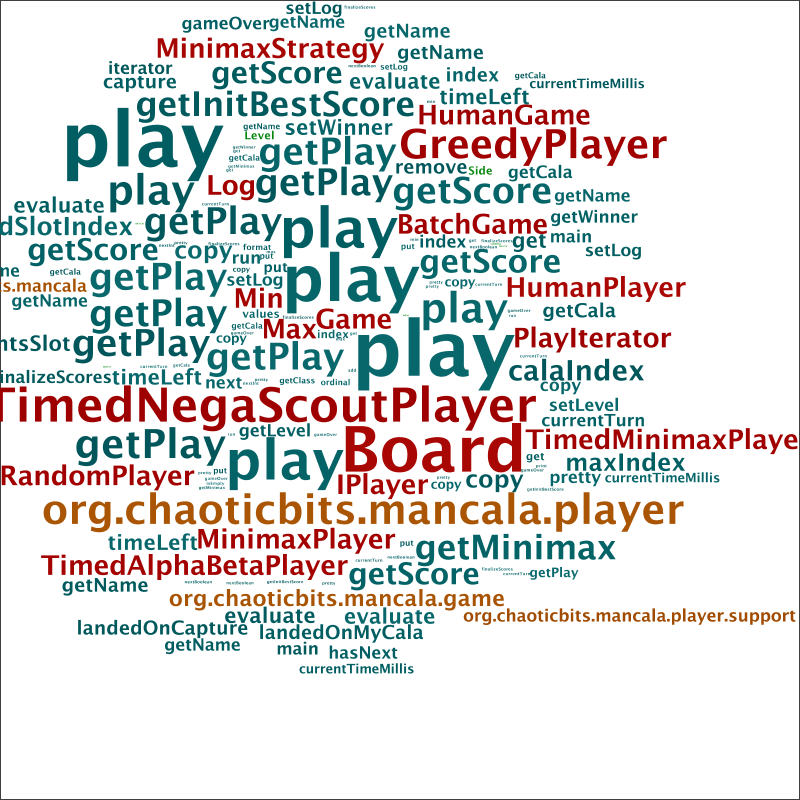
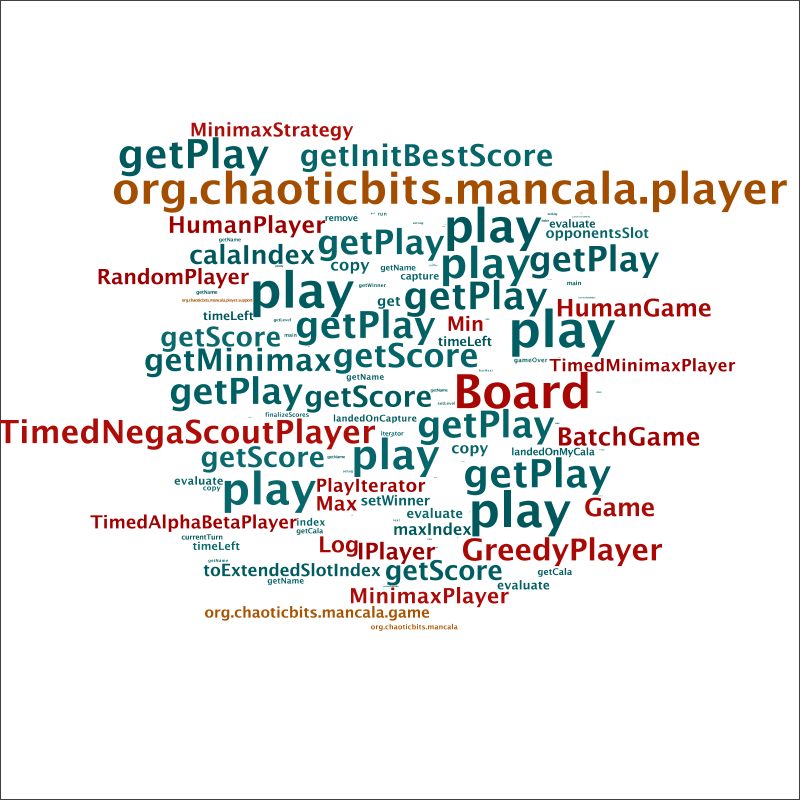
added a non-parametric font transformer, with a parameterized transform. Fix #1

Changed region(s): [[0.0, 0.0, 1.0, 0.8438]]

diff --git a/src/test/java/org/chaoticbits/collabcloud/visualizer/font/NonParametricFontTest.java b/src/test/java/org/chaoticbits/collabcloud/visualizer/font/NonParametricFontTest.java
@@ -1,0 +1,72 @@
+package org.chaoticbits.collabcloud.visualizer.font;
+
+import static org.junit.Assert.assertEquals;
+
+import java.awt.Font;
+
+import org.chaoticbits.collabcloud.CloudWeights;
+import org.chaoticbits.collabcloud.ISummaryToken;
+import org.easymock.EasyMock;
+import org.easymock.IMocksControl;
+import org.junit.After;
+import org.junit.Before;
+import org.junit.Test;
+
+public class NonParametricFontTest {
+
+	private static final int NUM_TOKENS = 10;
+	private IMocksControl ctrl = EasyMock.createControl();
+	private ISummaryToken[] token;
+	private Font font = new Font("Courier New", Font.PLAIN, 100);
+
+	@Before
+	public void setUp() {
+		if (token == null) {
+			token = new ISummaryToken[NUM_TOKENS];
+			for (int i = 0; i < NUM_TOKENS; i++)
+				token[i] = ctrl.createMock(ISummaryToken.class);
+		}
+		ctrl.reset();
+	}
+
+	@After
+	public void verifyMocks() {
+		ctrl.verify();
+	}
+
+	@Test
+	public void squareTheRanks() throws Exception {
+		CloudWeights weights = new CloudWeights();
+		weights.put(token[0], 1000d); // Rank 7
+		weights.put(token[1], 50d);
+		weights.put(token[2], 10d); // Rank 5
+		weights.put(token[3], 9d);
+		weights.put(token[4], 8d);
+		weights.put(token[5], 7d);
+		weights.put(token[6], 5d); // Rank 1
+
+		int maxFontSize = 49; // no scaling
+		IFontTransformer trans = new NonParametricFont(font, weights, MathTransforms.square, maxFontSize);
+		ctrl.replay();
+		assertEquals(49d, trans.transform(token[0], 1000d).getSize2D(), 0.001);
+		assertEquals(25d, trans.transform(token[2], 500d).getSize2D(), 0.001);
+		assertEquals(1d, trans.transform(token[6], 1d).getSize2D(), 0.001);
+	}
+	
+	@Test
+	public void cubeTheRanks() throws Exception {
+		CloudWeights weights = new CloudWeights();
+		weights.put(token[0], 1000d); // Rank 4
+		weights.put(token[1], 50d);
+		//switch up the ranks - make sure its sorting
+		weights.put(token[2], 5d); // Rank 1
+		weights.put(token[3], 10d); // Rank 2
+
+		int maxFontSize = 64; // no scaling
+		IFontTransformer trans = new NonParametricFont(font, weights, MathTransforms.cube, maxFontSize);
+		ctrl.replay();
+		assertEquals(64d, trans.transform(token[0], 1000d).getSize2D(), 0.001);
+		assertEquals(8d, trans.transform(token[3], 500d).getSize2D(), 0.001);
+		assertEquals(1d, trans.transform(token[2], 1d).getSize2D(), 0.001);
+	}
+}

diff --git a/src/test/java/org/chaoticbits/collabcloud/SummarizeRepo.java b/src/test/java/org/chaoticbits/collabcloud/SummarizeRepo.java
@@ -25,6 +25,8 @@ import org.chaoticbits.collabcloud.visualizer.SpiralIterator;
 import org.chaoticbits.collabcloud.visualizer.color.IColorScheme;
 import org.chaoticbits.collabcloud.visualizer.font.BoundedLogFont;
 import org.chaoticbits.collabcloud.visualizer.font.IFontTransformer;
+import org.chaoticbits.collabcloud.visualizer.font.MathTransforms;
+import org.chaoticbits.collabcloud.visualizer.font.NonParametricFont;
 import org.chaoticbits.collabcloud.visualizer.placement.CenteredTokenWrapper;
 import org.chaoticbits.collabcloud.visualizer.placement.IPlaceStrategy;
 import org.chaoticbits.collabcloud.visualizer.placement.ParentNetworkPlacement;
@@ -67,15 +69,16 @@ public class SummarizeRepo {
 		PropertyConfigurator.configure("log4j.properties");
 
 		CloudWeights weights;
-		// weights = testBed();
+		weights = testBed();
 		// weights = thisRepo();
 		// weights = jenkins();
-		weights = jboss();
+		// weights = jboss();
 		// System.out.println("==Weights after Diff Adjustment==");
 		// System.out.println(weights);
-		IFontTransformer FONT_TRANSFORMER = new BoundedLogFont(INITIAL_FONT, weights, MAX_FONT_SIZE);
+		// IFontTransformer FONT_TRANSFORMER = new BoundedLogFont(INITIAL_FONT, weights, MAX_FONT_SIZE);
+		IFontTransformer FONT_TRANSFORMER = new NonParametricFont(INITIAL_FONT, weights, MathTransforms.fourthPower, MAX_FONT_SIZE);
 		IPlaceStrategy parentNetworkPlace = new CenteredTokenWrapper(new ParentNetworkPlacement(weights.tokens(), new Dimension(WIDTH / 2,
-				HEIGHT / 2), new Point2D.Double(2 * WIDTH / 3, 2 * HEIGHT / 3)));
+				HEIGHT / 2), new Point2D.Double(3 * WIDTH / 4, 3 * HEIGHT / 4)));
 		// IPlaceStrategy contributionNetworkPlaceStrategy = new CenteredTokenWrapper(new
 		// ContributionNetworkPlacement(weights.tokens(),
 		// developers, new Dimension(WIDTH / 2, HEIGHT / 2), new Point2D.Double(2 * WIDTH / 3, 2 * HEIGHT /

diff --git a/src/main/java/org/chaoticbits/collabcloud/visualizer/font/NonParametricFont.java b/src/main/java/org/chaoticbits/collabcloud/visualizer/font/NonParametricFont.java
@@ -1,0 +1,35 @@
+package org.chaoticbits.collabcloud.visualizer.font;
+
+import java.awt.Font;
+import java.util.HashMap;
+import java.util.List;
+import java.util.Map;
+import java.util.Map.Entry;
+
+import org.apache.commons.collections15.Transformer;
+import org.chaoticbits.collabcloud.CloudWeights;
+import org.chaoticbits.collabcloud.ISummaryToken;
+
+public class NonParametricFont implements IFontTransformer {
+
+	private final Font initialFont;
+	private final Map<ISummaryToken, Double> rankMap;
+	private double multiplier = 1.0;
+	private final Transformer<Double, Double> rankTransform;
+
+	public NonParametricFont(Font initialFont, CloudWeights weights, Transformer<Double, Double> rankTransform, double maxFontSize) {
+		this.initialFont = initialFont;
+		this.rankTransform = rankTransform;
+		rankMap = new HashMap<ISummaryToken, Double>(weights.unsortedEntries().size());
+		List<Entry<ISummaryToken, Double>> entries = weights.sortedEntries();
+		double rank = entries.size();
+		for (Entry<ISummaryToken, Double> entry : entries) {
+			rankMap.put(entry.getKey(), rank--);
+		}
+		multiplier = maxFontSize / rankTransform.transform((double) entries.size());
+	}
+
+	public Font transform(ISummaryToken token, Double weight) {
+		return initialFont.deriveFont((float) (multiplier * rankTransform.transform(rankMap.get(token))));
+	}
+}

diff --git a/src/test/java/org/chaoticbits/collabcloud/visualizer/font/MathTransforms.java b/src/test/java/org/chaoticbits/collabcloud/visualizer/font/MathTransforms.java
@@ -1,0 +1,37 @@
+package org.chaoticbits.collabcloud.visualizer.font;
+
+import org.apache.commons.collections15.Transformer;
+
+public class MathTransforms {
+
+	/**
+	 * Square the number
+	 * @return
+	 */
+	public static final Transformer<Double, Double> square = new Transformer<Double, Double>() {
+		public Double transform(Double input) {
+			return input * input;
+		}
+	};
+
+	/**
+	 * Cube the number
+	 * @return
+	 */
+	public static final Transformer<Double, Double> cube = new Transformer<Double, Double>() {
+		public Double transform(Double input) {
+			return input * input * input;
+		}
+	};
+
+	/**
+	 * Cube the number
+	 * @return
+	 */
+	public static final Transformer<Double, Double> fourthPower = new Transformer<Double, Double>() {
+		public Double transform(Double input) {
+			return input * input * input * input;
+		}
+	};
+
+}
